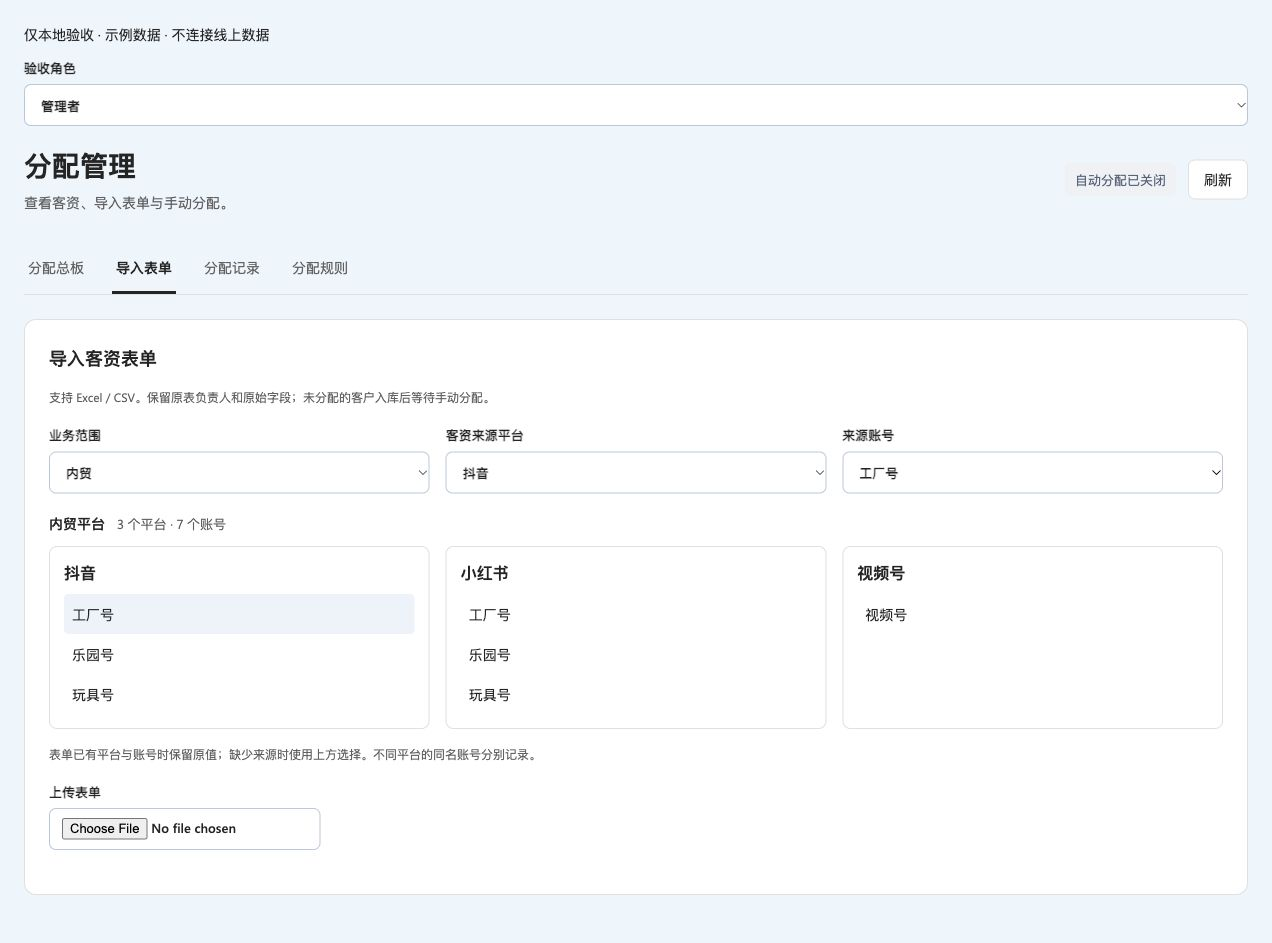
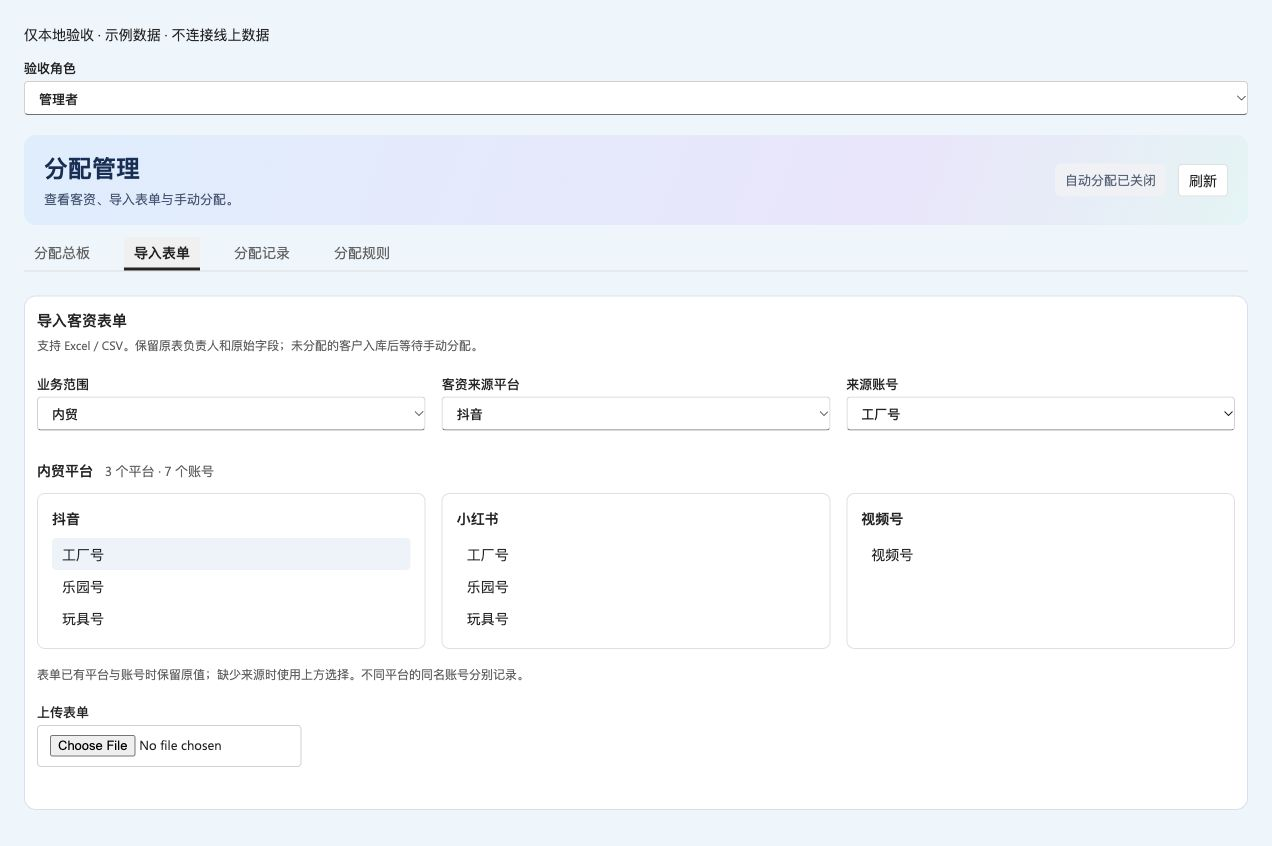
Record allocation acceptance in current CRM application shell

diff --git a/.impeccable/surfaces/app-allocation-management-tsx.md b/.impeccable/surfaces/app-allocation-management-tsx.md
@@ -4,7 +4,7 @@
 
 ## 页面与视觉
 
-- 使用现有深蓝导航、蓝色操作、浅灰蓝背景及白色面板；表格、筛选和清晰的文字状态优先。来源标签保留文字，Instagram、Facebook 和其他来源分别使用已有语义色。
+- 继承当前 `DESIGN.md` 的 Microsoft 365 浅色 Fluent 主题：浅蓝导航与画布、蓝色操作、白色面板、Segoe UI 字体及蓝紫青页首分区，保留 YIFUN LIFE 身份。紧凑表格、筛选和清晰的文字状态优先；来源标签保留文字，Instagram、Facebook 和其他来源分别使用已有语义色。
 - 顶部保留「分配总板」「导入表单」「分配记录」「分配规则」四个直接页签，不增加嵌套导航。分配总板内的客资列表可收起，统计区独立显示。
 - 筛选与导入来源使用原生下拉选择器。导入页同时列出平台及账号按钮：内贸 3 个平台、7 个账号；外贸 4 个平台、8 个账号。其他客资渠道与社媒平台分组呈现，不计入社媒平台数量。
 - 桌面筛选横向紧凑排列并允许换行；720px 以下改为单列，平台卡片与字段对应表堆叠。宽客资表格在自身区域横向滚动；页签可横向查看，分页与总数保留在表格底部。
@@ -22,7 +22,7 @@
 
 ## 已有验证
 
-收尾评审已检查桌面及移动端的本地合成数据页面，结论为可交付，无需实质修正。截图：
+桌面及移动端的本地合成数据页面已完成初次收尾评审，无实质修正项。合并当前已部署主题后，以下四张截图已在完整 `.office-app .workspace` 外壳及全局样式加载顺序下重新采集，包含当前紧凑主题与页首渐变；本次重采集的最终复核另行记录：
 
 - [外贸桌面](../review/allocation-foreign-desktop.png)
 - [内贸桌面](../review/allocation-domestic-desktop.png)
